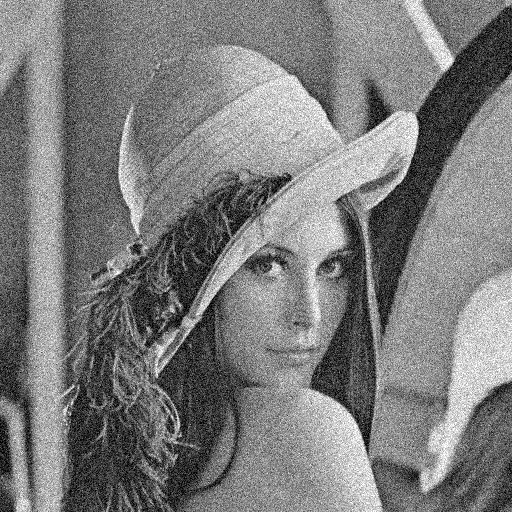
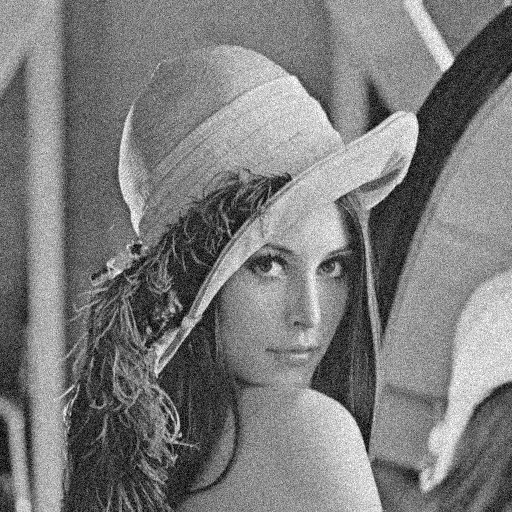
Modified createNoisyImage.m

diff --git a/tools/createNoisyImage.m b/tools/createNoisyImage.m
@@ -4,9 +4,12 @@ addpath('../data/');
 %read image
 lena  = imread('Lena.png');
 %convert to grayscale
-lena = rgb2gray(lena);
+% lena = rgb2gray(lena);
 %create gaussian noise
-noisyLena = imnoise(lena,'gaussian');
+noisyLena = imnoise(lena,'gaussian', 0,.005);
+%noisyLena = imnoise(lena,'gaussian');
+%noisyLena = awgn(single(lena(:)),10,'measured');
+%noisyLena = reshape(noisyLena,[512 512]);
 figure; imagesc(lena);
 colormap gray
 figure; imagesc(noisyLena)
